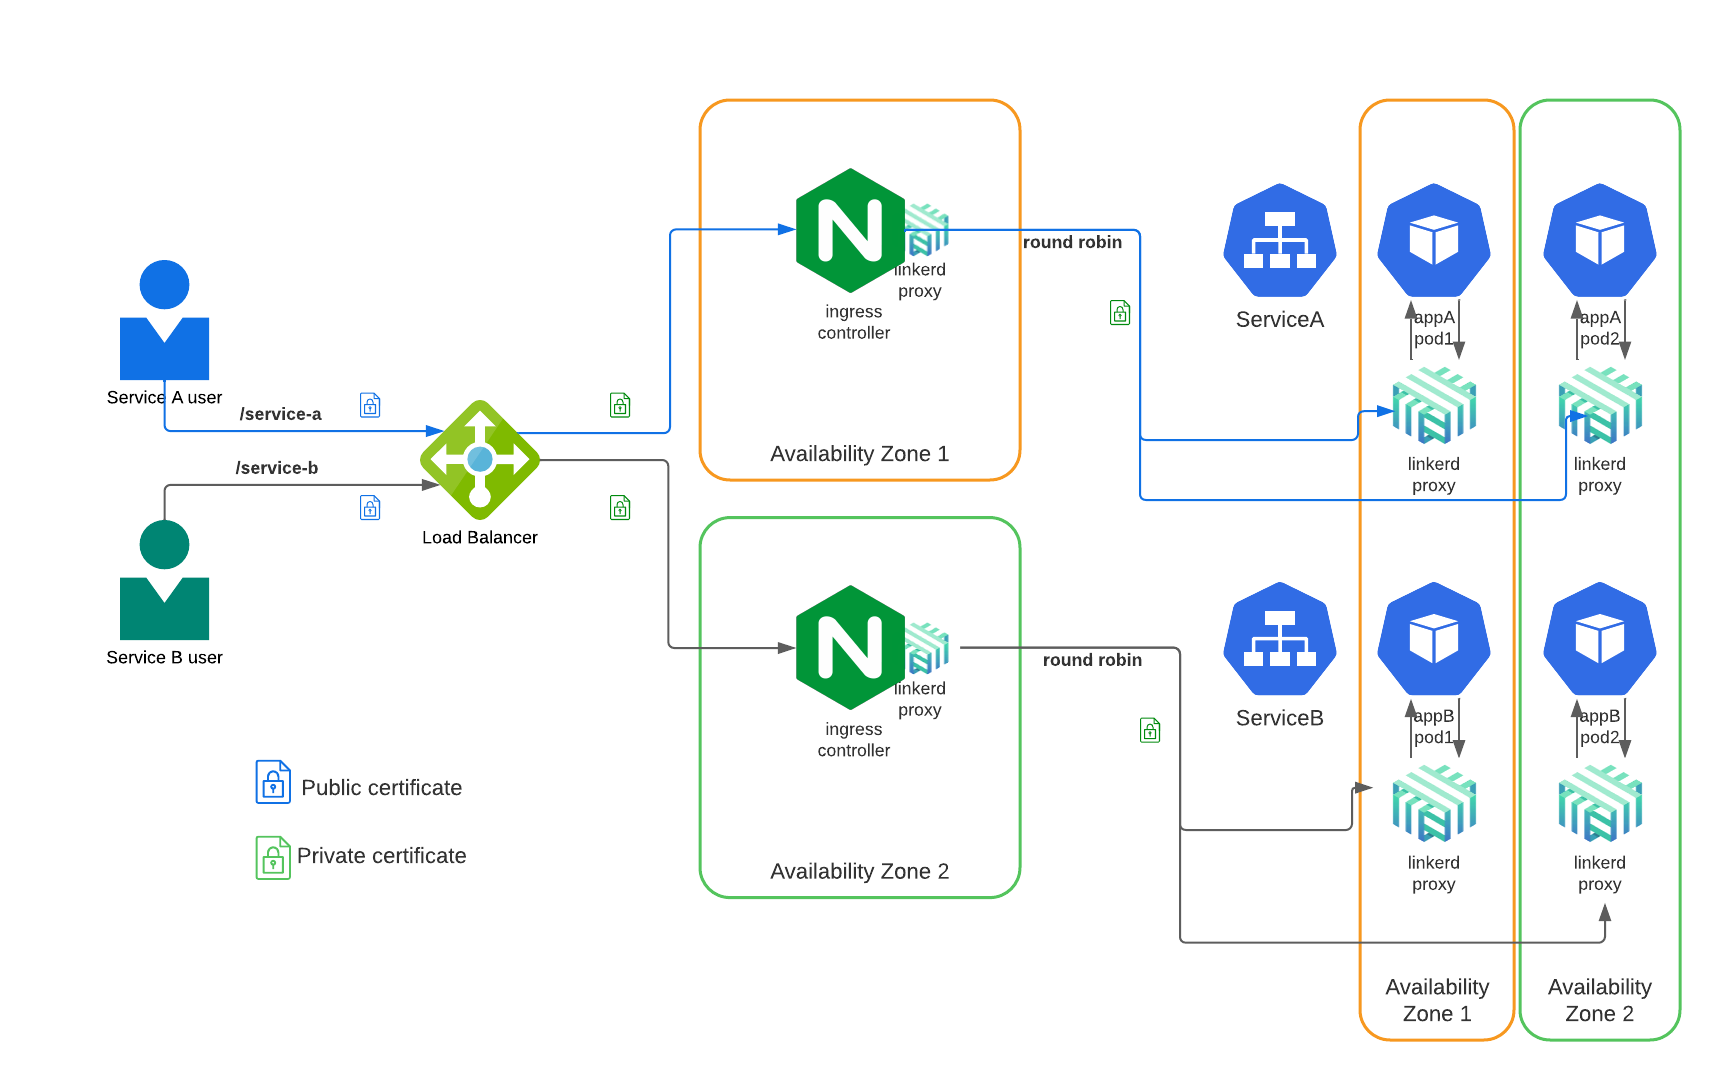
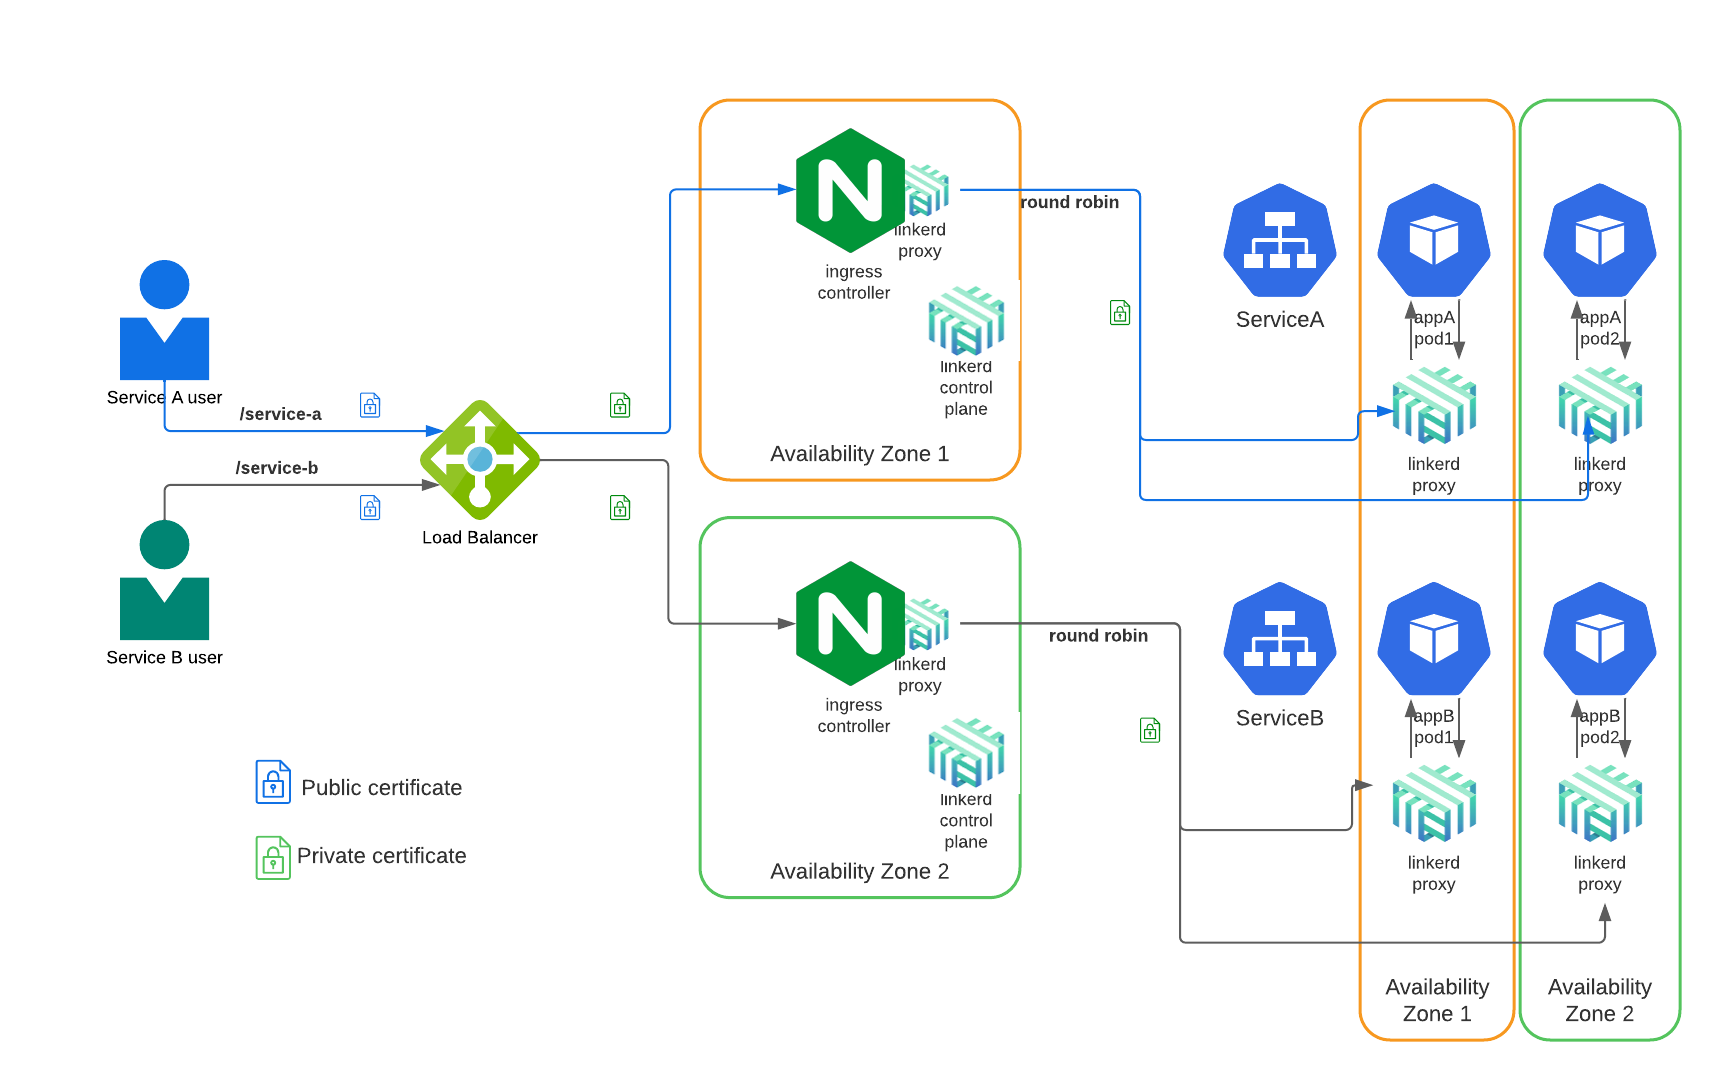
address comments

diff --git a/content/en/Features/networking/high_availability.md b/content/en/Features/networking/high_availability.md
@@ -10,7 +10,7 @@ description: >
 
 ## Kubernetes Ingress - high availability
 
-Opta can also deploy the nginx ingress in a high-availability configuration, this is done by setting the flag **nginx_high_availability** in the *k8s-base* module.
+Opta can also deploy the nginx ingress in a high-availability configuration, this is done by setting the flags **nginx_high_availability** and **linkerd_high_availability** in the *k8s-base* module. That's it!
 
 ![High availability](/images/network_ingress_overview_HA.png)
 
@@ -19,4 +19,5 @@ Simulation of an availability zone outage:
 ![High availability outage](/images/network_ingress_overview_HA_outage.png)
 
 
-When high availability is enabled, Opta uses 3 Availability Zones with one ingress controller in each zone.
+When high availability is enabled, Opta uses 3 Availability Zones.
+
